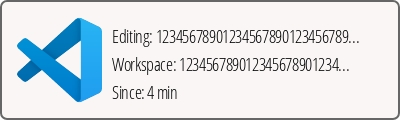
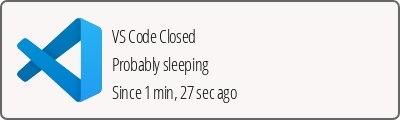
fixed user dead

Changed region(s): [[0.27, 0.475, 0.87, 0.625], [0.27, 0.25, 0.9, 0.4], [0.33, 0.7, 0.6, 0.875]]

diff --git a/index.js b/index.js
@@ -52,10 +52,12 @@ let lineFiexr = (file, wspace) => {
   }
 }
 
[1 lines of base64/hex data omitted]
+
+
 let justBake = async (file, wspace, time) => {
   let fixedData = lineFiexr(file, wspace)
   let duration = await calculateDuration(time)
[1 lines of base64/hex data omitted]
 
   let data = `<html lang="en">
                <head>
@@ -118,7 +120,7 @@ let justBake = async (file, wspace, time) => {
 let die = async (difference) => {
 
   let deadSince = shortEnglishHumanizer(difference)
-
+  console.log(deadSince)
   let data = `<html lang="en">
   <head>
   <link rel="preconnect" href="https://fonts.gstatic.com">
@@ -204,7 +206,6 @@ let changeData = async (data) => {
 }
 
 exports.justBake = justBake;
-exports.shakeAndBake = shakeAndBake;
 exports.compareData = compareFile;
 exports.changeData = changeData;
 exports.die = die;

diff --git a/server2.js b/server2.js
@@ -27,15 +27,18 @@ io.on('connection', function (socket) {
 })
 
 let minutepassed = (current, past) => {
+  console.log(current)
+  console.log(past)
   let diff = current - past
+  console.log(diff)
   if (diff > 59999){
     index.die(diff)
   }
 }
-
+  
 setInterval(() => {
   let currentTime = getTime()
-  minutepassed(lastTime, currentTime)
+  minutepassed(currentTime, lastTime)
 }, 10000)
 
 console.log(__dirname)
